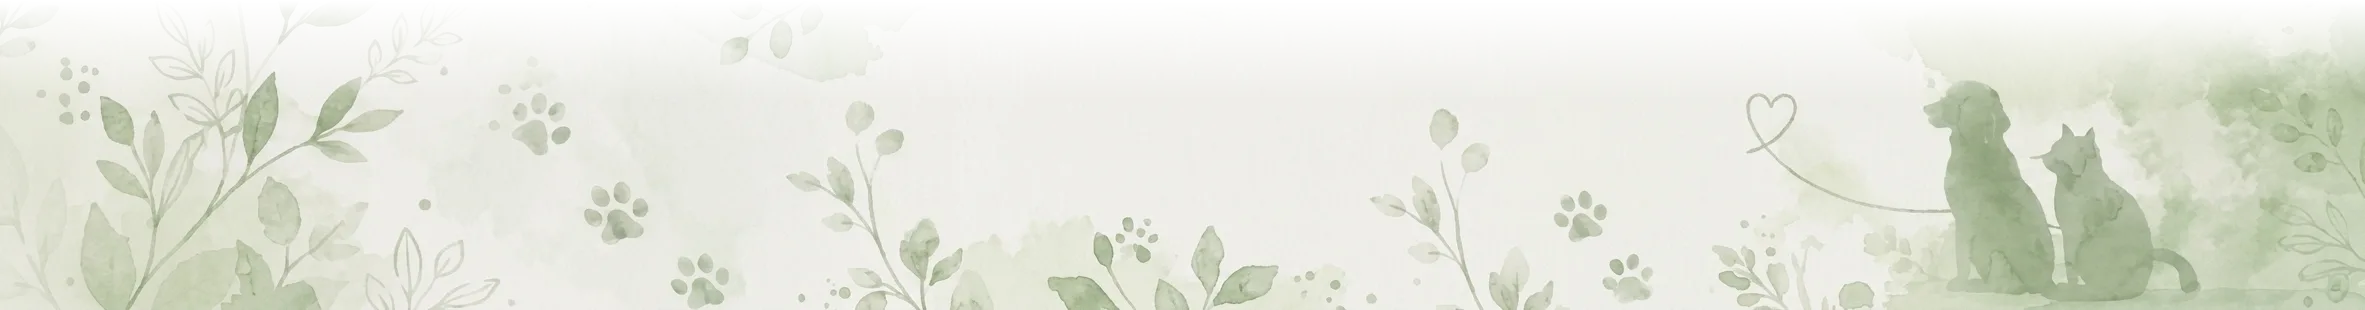
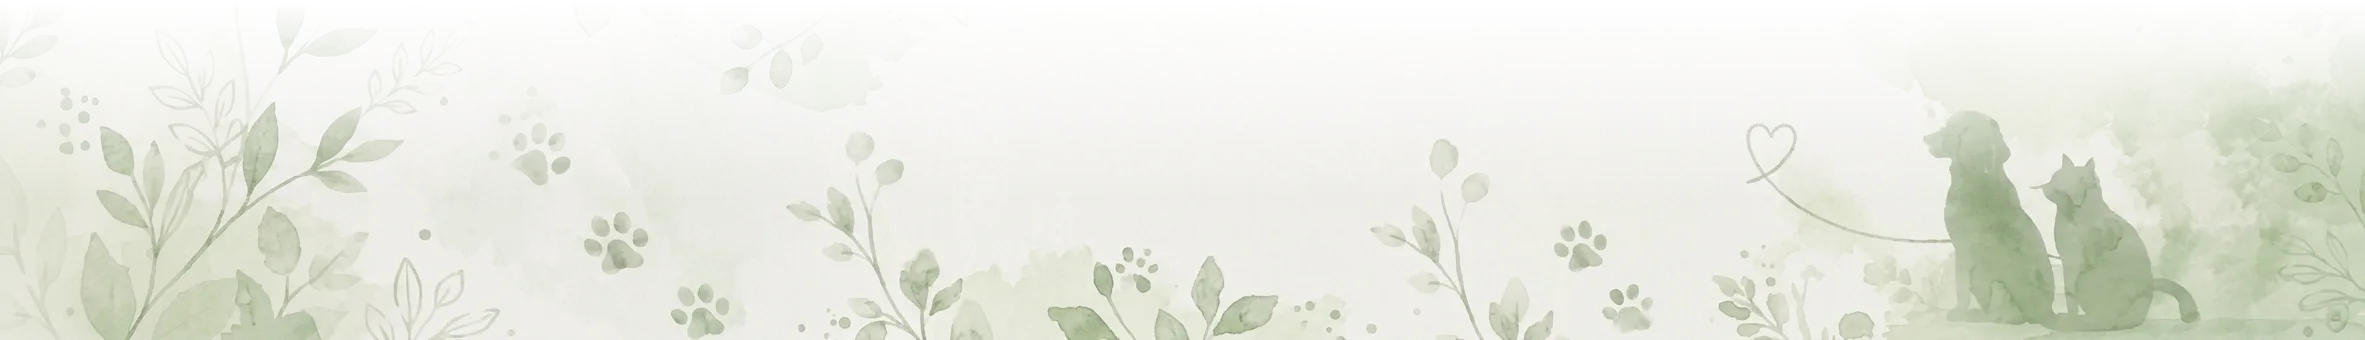
fix: łapki tylko przy krawędziach okna, płynne wejście w pas nad stopką
Wzór szedł pod tekst i całość robiła się nieczytelna. Na łapki nakłada się
zasłona w kolorze kremu z pełnym kryciem między 23% a 77% szerokości okna, więc
wzór zostaje przy lewej i prawej krawędzi, a w pasie z treścią gaśnie do zera.

Pas nad stopką wchodził w stronę widoczną poziomą krawędzią: papier w grafice
jest zieleńszy od kremu strony, a wygaszenie na 100 px było za krótkie, żeby tę
różnicę rozłożyć. Wygaszenie idzie na 200 px, wycinek źródła z 310 na 340 px.

diff --git a/index.html b/index.html
@@ -86,8 +86,15 @@
          krawędzi, więc kafel klei się bez szwu. Wektorowa łapka tu nie pasowała: hero
          jest akwarelowy, a geometryczne kółka i owal gryzły się z nim. Hero, pasek
          zaufania i stopka mają własne nieprzezroczyste tła, więc wzór widać tylko
-         między sekcjami. */
+         między sekcjami.
+         Zasłona w kolorze kremu na wierzchu zostawia łapki tylko przy lewej i prawej
+         krawędzi okna, a w środkowym pasie, gdzie stoi treść, gasi je do zera. Bez tego
+         wzór szedł pod tekst i wszystko robiło się nieczytelne. */
       background:
+        linear-gradient(to right,
+          rgba(246,244,238,0) 0%, rgba(246,244,238,0) 7%,
+          rgba(246,244,238,1) 23%, rgba(246,244,238,1) 77%,
+          rgba(246,244,238,0) 93%, rgba(246,244,238,0) 100%),
         url('assets/page-paws.webp') 0 0 / 520px 520px repeat,
         var(--bg);
       color: var(--ink); line-height: 1.55; -webkit-font-smoothing: antialiased;
@@ -246,7 +253,7 @@
     /* Akwarelowy pas domykający stronę, ta sama grafika co w hero, odbita w poziomie,
        więc kot i pies siedzą po prawej. `aspect-ratio` trzyma wysokość równą renderowanej
        wysokości grafiki, dzięki czemu wygaszona górna krawędź nigdy nie zostaje ucięta. */
-    .page-foot-art { aspect-ratio: 2365 / 310; background: url('assets/page-foot.webp') center bottom / 100% auto no-repeat; }
+    .page-foot-art { aspect-ratio: 2365 / 340; background: url('assets/page-foot.webp') center bottom / 100% auto no-repeat; }
 
     /* ---------- footer ---------- */
     footer { background: #1F2A23; color: #C7D0C7; padding: 46px 24px 34px; }

diff --git a/.claude/CLAUDE.md b/.claude/CLAUDE.md
@@ -122,6 +122,12 @@ i nieprzykryte na każdej z nich, a przejście pasa w papier niewidoczne.
 Poniżej hero `body` ma krem `--bg` plus `assets/page-paws.webp`: kafel 520 px z 20 akwarelowymi
 łapkami **wyciętymi z `hero2.jpeg`**, czyli z tej samej grafiki co hero.
 
+**Łapki widać tylko przy lewej i prawej krawędzi okna.** Na wzór nałożona jest zasłona w kolorze
+kremu, `linear-gradient(to right, ...)` z pełnym kryciem między 23% a 77% szerokości. W środkowym
+pasie, gdzie stoi treść, wzór gaśnie do zera. Bez tej zasłony łapki szły pod tekst i całość robiła
+się nieczytelna (zgłoszenie usera 2026-09-03). Stopy w procentach, nie w pikselach, więc na wąskim
+oknie zasłona zakrywa prawie wszystko, i dobrze: tam na wzór nie ma miejsca.
+
 **Nie rysuj tu łapki wektorowo.** Próbowaliśmy (SVG z czterech kółek i owalu, krycie 0,02, potem
 0,30) i za każdym razem gryzło się z hero: akwarela ma wydłużone paluchy, nieregularną poduszkę
 i rozmyte krawędzie, geometryczny odpowiednik wygląda przy niej jak z innej strony. Za mocne
@@ -138,12 +144,16 @@ Wzór widać tylko między sekcjami, bo hero, pasek zaufania, karty i stopka maj
 nieprzezroczyste tła.
 
 Stronę domyka `.page-foot-art` tuż nad stopką: `assets/page-foot.webp`, czyli ta sama akwarela co
-w hero, ale **z dolnych 310 px źródła** i odbita w poziomie (`-flop`), więc kot i pies siedzą po
+w hero, ale **z dolnych 340 px źródła** i odbita w poziomie (`-flop`), więc kot i pies siedzą po
 prawej. Wycinek jest węższy niż w hero, bo pełne 448 px zostawiało nad pasem szeroki jałowy pas
 papieru i user zgłosił to jako dziurę w układzie (2026-09-03). Z tego samego powodu sekcja
 `#download` ma `padding-bottom: 18px` zamiast domyślnych 78 px.
 
-`aspect-ratio: 2365/310` trzyma wysokość elementu równą renderowanej wysokości grafiki, dzięki
+**Wygaszenie górnej krawędzi rozciągnij na 200 px z 340.** Papier w grafice jest zieleńszy od kremu
+strony, więc przy krótkim wygaszeniu (próbowaliśmy 100 px) różnica tonu układa się w poziomą
+krawędź przez całą szerokość okna. Przy 200 px rozkłada się niepostrzeżenie.
+
+`aspect-ratio: 2365/340` trzyma wysokość elementu równą renderowanej wysokości grafiki, dzięki
 czemu wygaszona górna krawędź nigdy nie zostaje ucięta. Poniżej 880 px stała wysokość 150 px, bo
 przy proporcji pas schodziłby do kilkudziesięciu pikseli.
 
